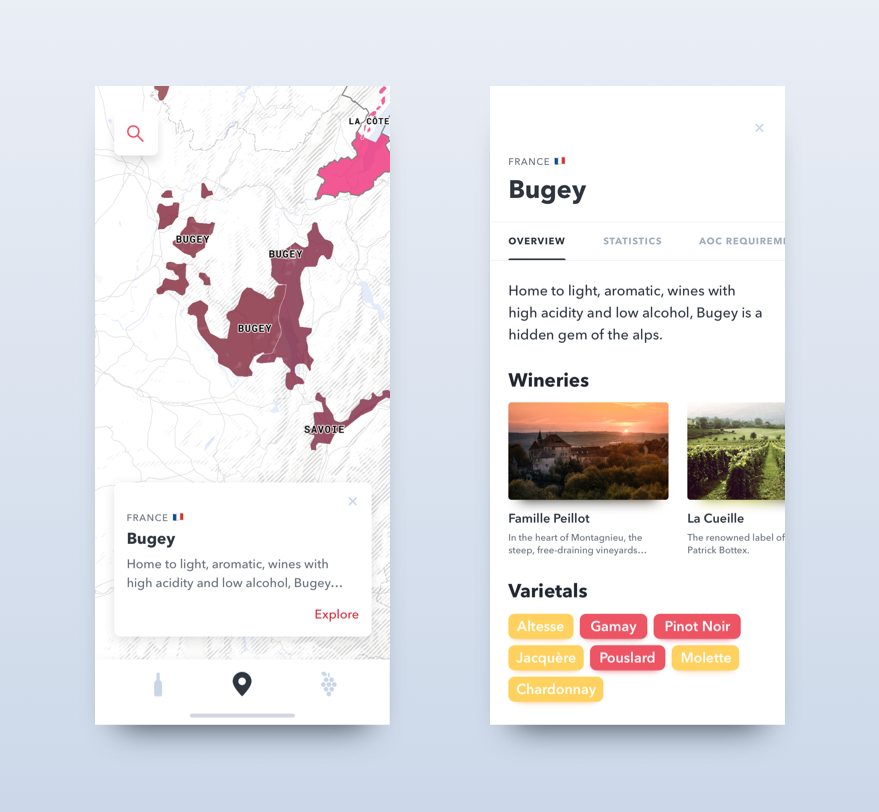
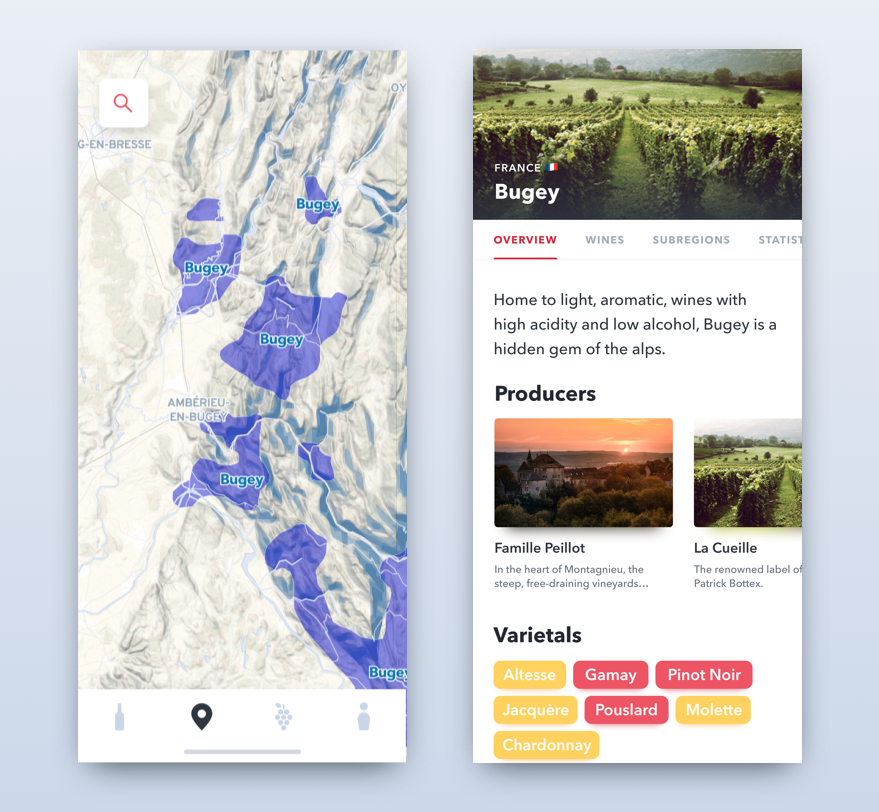
adds nearby

diff --git a/index.html b/index.html
@@ -138,6 +138,15 @@
                         </div>
                         <div class="feature-extended">
                             <div class="feature-extended-image is-revealing">
+                                <img src="images/nearby.png" alt="">
+                            </div>
+                            <div class="feature-extended-body">
+                                <h3 class="mt-0">Never leave the wine trail.</h3>
+                                <p>Your global wine region passport is right in your pocket. Explore nearby regions and producers (whether you planned to or not).</p>
+                            </div>
+                        </div>
+                        <div class="feature-extended">
+                            <div class="feature-extended-image is-revealing">
                                 <img src="images/bottlePage.png" alt="">
                             </div>
                             <div class="feature-extended-body">
